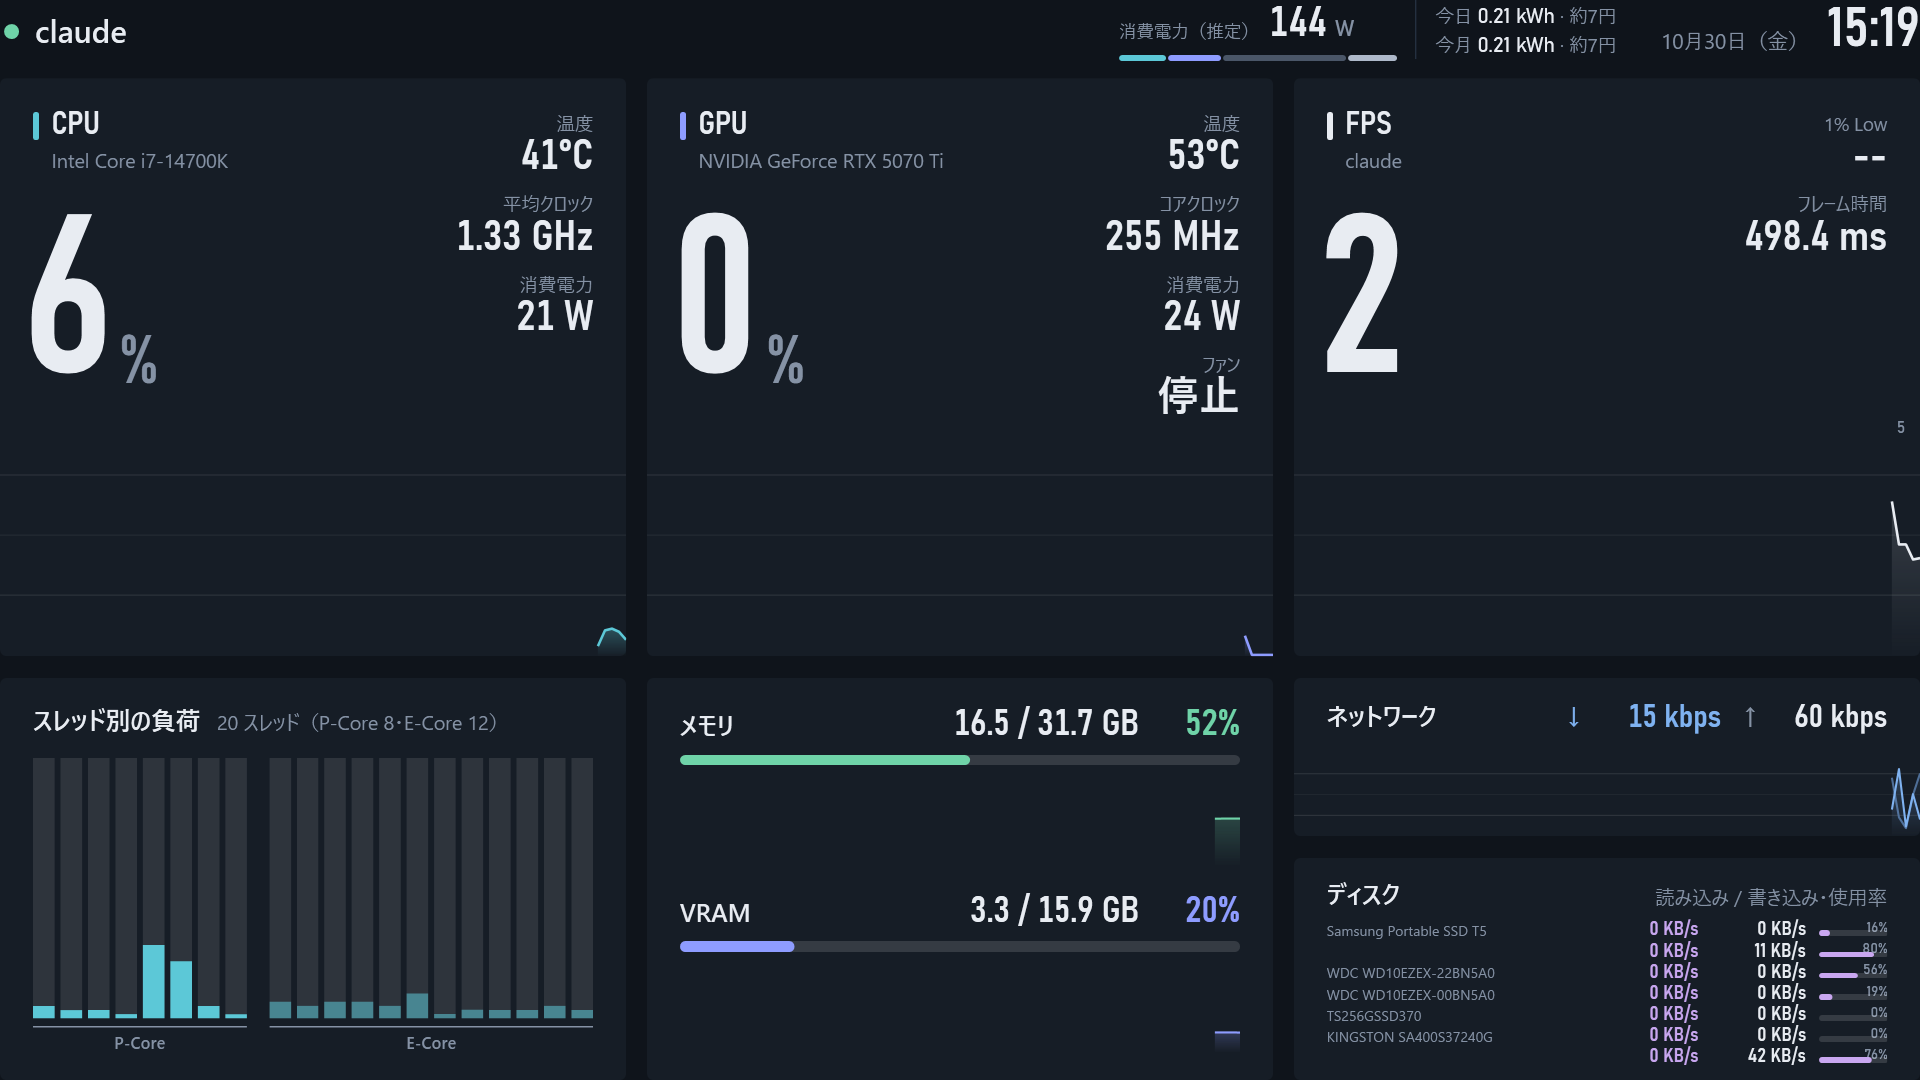
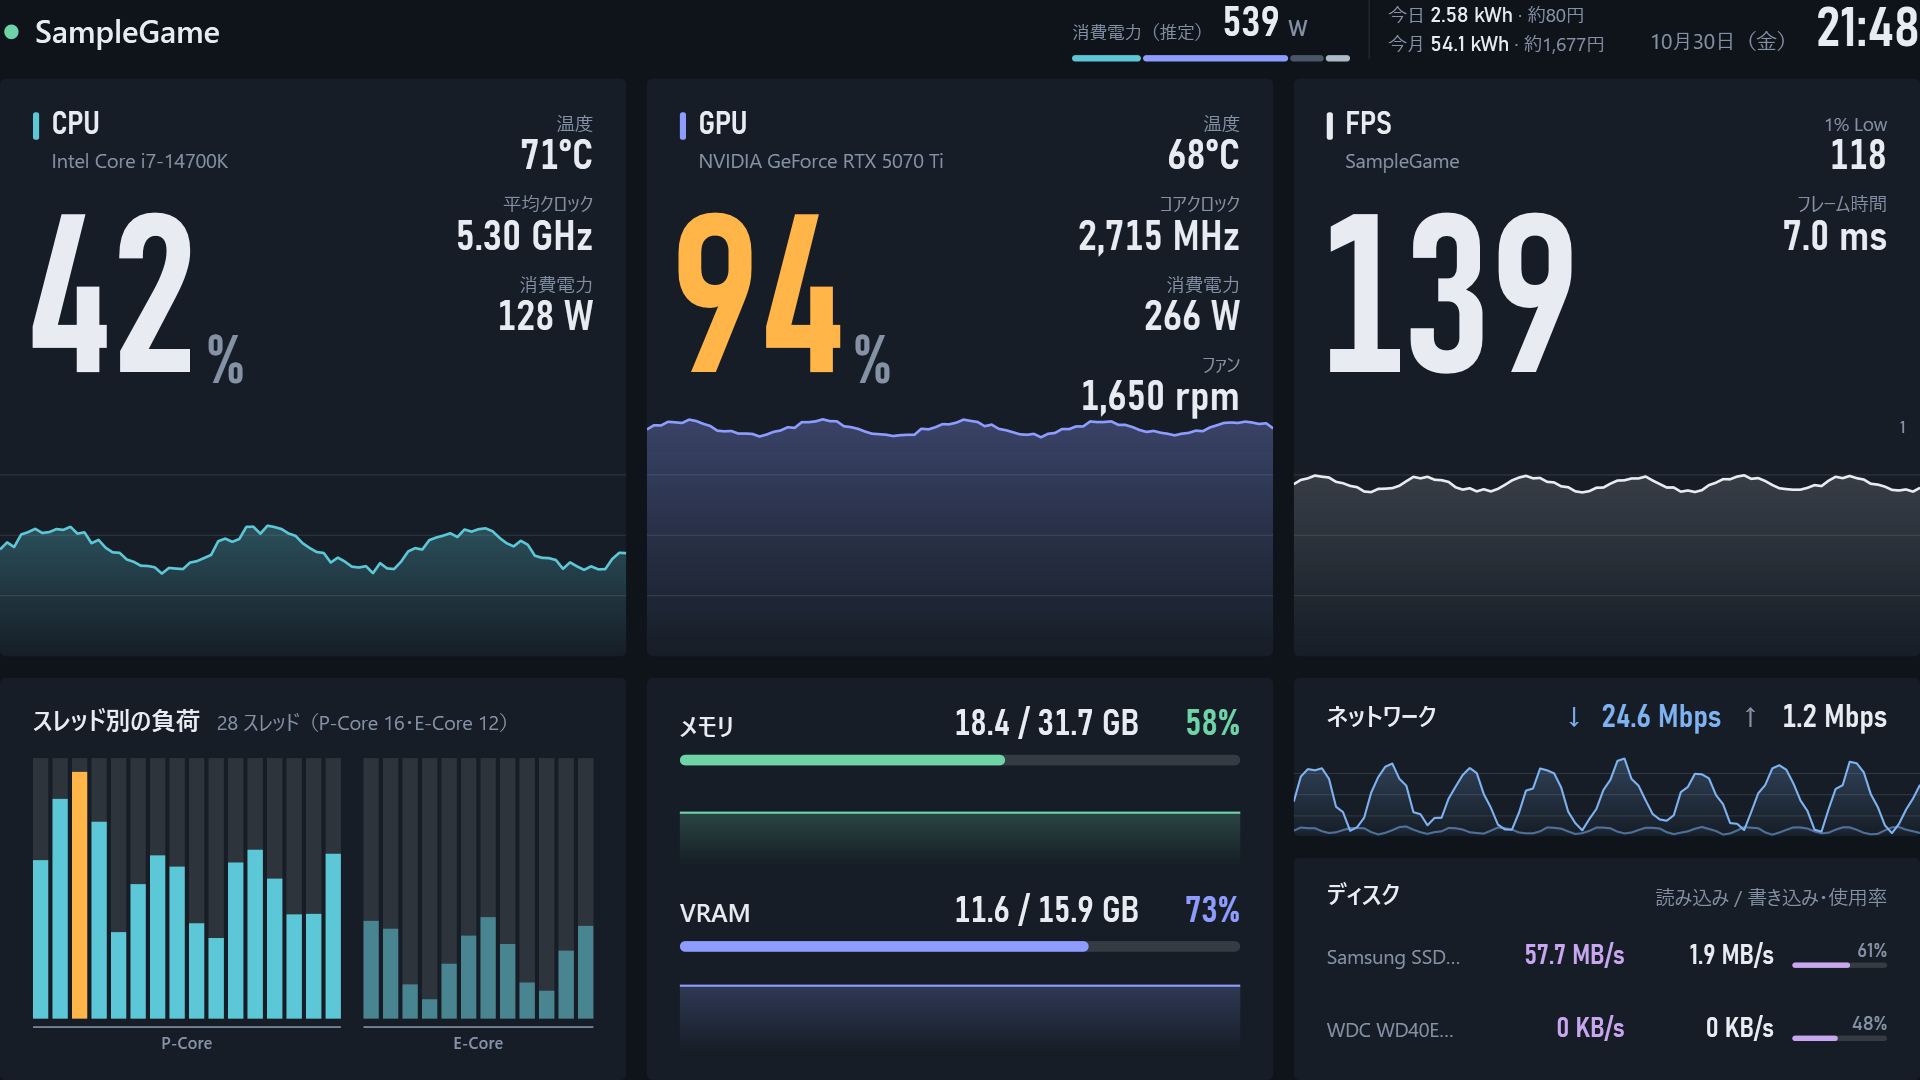
README の画面写真を見本データから作るツールを追加（tools/Screenshots）
本体のレイアウトに見本データを流し込んで 1920×1080 の PNG を作る。
実機で撮る screenshot.request の仕組みは不要になったので外す

diff --git a/tools/Screenshots/Program.cs b/tools/Screenshots/Program.cs
@@ -1,0 +1,212 @@
+using System;
+using System.Collections.Generic;
+using System.IO;
+using System.Linq;
+using System.Threading.Tasks;
+using System.Windows;
+using System.Windows.Controls;
+using System.Windows.Media;
+using System.Windows.Media.Imaging;
+using System.Windows.Threading;
+using MyDashboard;
+using MyDashboard.Info;
+using MyDashboard.Monitoring;
+using MyDashboard.Views;
+
+namespace MyDashboard.Screenshots;
+
+/// <summary>
+/// 3つのレイアウトに見本データ（ゲーム中を想定）を流し込み、1920×1080 の PNG に保存する。
+/// 本体のレイアウトをそのまま使うので、見た目を変えたら実行し直すだけで README の写真が新しくなる。
+/// </summary>
+public static class Program
+{
+    private static readonly Random Rng = new(7);   // 毎回同じ絵になるように固定
+
+    [STAThread]
+    public static int Main(string[] args)
+    {
+        string outDir = args.Length > 0 ? args[0] : FindImagesFolder();
+        Directory.CreateDirectory(outDir);
+
+        // 本体の App.xaml の色・文字スタイルを読み込む（Run はしないので本体のウィンドウは開かない）
+        var app = new App();
+        app.InitializeComponent();
+        app.ShutdownMode = ShutdownMode.OnExplicitShutdown;
+
+        int code = 0;
+        Dispatcher.CurrentDispatcher.InvokeAsync(async () =>
+        {
+            try
+            {
+                await Capture("classic", null, outDir);
+                await Capture("gauge", null, outDir);
+                await Capture("aurora", "night", outDir);
+                await Capture("aurora", "day", outDir);
+            }
+            catch (Exception ex)
+            {
+                Console.Error.WriteLine(ex);
+                code = 1;
+            }
+            Dispatcher.CurrentDispatcher.InvokeShutdown();
+        });
+        Dispatcher.Run();
+        return code;
+    }
+
+    /// <summary>リポジトリの docs\images（このツールの位置から上にたどる）。</summary>
+    private static string FindImagesFolder()
+    {
+        var dir = new DirectoryInfo(AppContext.BaseDirectory);
+        while (dir != null && !File.Exists(Path.Combine(dir.FullName, "MyDashboard.csproj"))) dir = dir.Parent;
+        return Path.Combine(dir?.FullName ?? AppContext.BaseDirectory, "docs", "images");
+    }
+
+    private static async Task Capture(string layout, string? theme, string outDir)
+    {
+        var settings = new AppSettings
+        {
+            Layout = layout,
+            AuroraTheme = theme ?? "night",
+            AuroraMotion = false,
+            NewsRotateSeconds = 120,
+            WeatherPlace = "東京",
+        };
+        var ctx = new ViewContext(settings);
+        IDashboardView view = layout switch
+        {
+            "gauge" => new GaugeView(ctx),
+            "aurora" => new AuroraView(ctx),
+            _ => new ClassicView(ctx),
+        };
+        var host = new ContentControl { Width = 1920, Height = 1080, Content = view };
+        var background = view is Control { Background: { } bg } ? bg : ViewContext.Res("Ground");
+
+        // 画面の外に置いたウィンドウで動かす（レイアウトの Loaded やタイマーを本物どおりに動かすため）
+        var window = new Window
+        {
+            WindowStyle = WindowStyle.None,
+            ResizeMode = ResizeMode.NoResize,
+            ShowInTaskbar = false,
+            ShowActivated = false,
+            Left = -30000,
+            Top = -30000,
+            Width = 1920,
+            Height = 1080,
+            Background = background,
+            Content = host,
+        };
+        window.Show();
+
+        var clock = theme == "day" ? new DateTime(2026, 10, 30, 13, 20, 0) : new DateTime(2026, 10, 30, 21, 48, 0);
+        view.UpdateClock(clock);
+        view.ShowWeather(SampleWeather(clock, day: theme == "day"));
+        view.ShowNews(SampleNews());
+        view.ShowMedia(SampleMedia());
+        view.SetNotice("");
+
+        // グラフの履歴を埋める（直近90秒ぶん）
+        for (int i = 0; i < 90; i++) view.Render(SampleSnapshot(i));
+        await Task.Delay(TimeSpan.FromSeconds(5));   // 数字やメーターのアニメーション、色の切り替えが落ち着くまで
+        view.UpdateClock(clock);
+
+        var visual = new DrawingVisual();
+        using (var dc = visual.RenderOpen())
+        {
+            var rect = new Rect(0, 0, 1920, 1080);
+            dc.DrawRectangle(background, null, rect);
+            dc.DrawRectangle(new VisualBrush(host), null, rect);
+        }
+        var bmp = new RenderTargetBitmap(1920, 1080, 96, 96, PixelFormats.Pbgra32);
+        bmp.Render(visual);
+        var png = new PngBitmapEncoder();
+        png.Frames.Add(BitmapFrame.Create(bmp));
+        string name = theme == null ? layout : $"{layout}-{theme}";
+        using (var file = File.Create(Path.Combine(outDir, name + ".png"))) png.Save(file);
+        Console.WriteLine($"{name}.png");
+
+        window.Close();
+    }
+
+    // =========================================================== 見本データ
+
+    private const double GB = 1024d * 1024 * 1024;
+
+    private static double Wave(int i, double center, double amp, double period) =>
+        center + amp * Math.Sin(i * 2 * Math.PI / period) + (Rng.NextDouble() - 0.5) * amp * 0.6;
+
+    private static Snapshot SampleSnapshot(int i)
+    {
+        // 14700K：P コア 8（HT で 16 スレッド）＋ E コア 12
+        var threads = new List<double>();
+        var isE = new List<bool>();
+        for (int t = 0; t < 16; t++) { threads.Add(Math.Clamp(Wave(i + t * 5, t < 4 ? 78 : 52, 18, 23), 3, 100)); isE.Add(false); }
+        for (int t = 0; t < 12; t++) { threads.Add(Math.Clamp(Wave(i + t * 3, 24, 14, 17), 1, 100)); isE.Add(true); }
+
+        var cpu = new CpuInfo("Intel Core i7-14700K", Math.Clamp(Wave(i, 44, 8, 30), 0, 100), threads,
+            Wave(i, 68, 3, 40), 5300, 5600, Wave(i, 128, 12, 30), isE);
+        var gpu = new GpuInfo("NVIDIA GeForce RTX 5070 Ti", Math.Clamp(Wave(i, 94, 3, 20), 0, 99), Wave(i, 70, 2, 50), 82,
+            2715, 14000, Wave(i, 268, 14, 25), 11.6 * GB, 15.9 * GB, 1650);
+
+        var frames = new List<double>();
+        for (int f = 0; f < 1400; f++) frames.Add(1000.0 / 142 + (Rng.NextDouble() - 0.5) * 1.6 + (f % 230 == 0 ? 6 : 0));
+        var fps = new FpsInfo(FpsState.Running, "SampleGame", Wave(i, 142, 6, 15), 118, 7.0, null, frames,
+            new DlssInfo(DlssState.Detected, true, true, false, "310.2.1"), "Hardware: Independent Flip");
+
+        var disks = new List<DiskInfo>
+        {
+            new("Samsung SSD 990 PRO 2TB", Math.Max(0, Wave(i, 42e6, 30e6, 12)), Math.Max(0, Wave(i, 3e6, 2e6, 9)), 61, 44),
+            new("WDC WD40EZAZ", 0, 0, 48, 36),
+        };
+        var power = new PowerInfo(Wave(i, 548, 18, 25), 140, 290, 70, 48, 2.58, 54.1, 31);
+        return new Snapshot(cpu, gpu, new MemoryInfo(18.4 * GB, 31.7 * GB), disks,
+            new NetworkInfo(Math.Max(0, Wave(i, 2.4e6, 1.8e6, 11)), Math.Max(0, Wave(i, 0.3e6, 0.2e6, 7))),
+            fps, false, power);
+    }
+
+    private static NewsState SampleNews()
+    {
+        var now = DateTimeOffset.Now;
+        var items = new List<NewsItem>
+        {
+            new("テックニュース", "新しいグラフィックスドライバーが公開　人気タイトルで平均 8% の性能向上",
+                "https://example.com/1", now.AddHours(-1),
+                "最新のドライバーでは、複数の人気タイトルで描画性能が向上したほか、フレーム生成の安定性も改善された。配信ソフトとの組み合わせで起きていた不具合も修正されている。"),
+            new("ゲームニュース", "冬のセールが今週末から開始　過去最大の 3,000 本以上が対象", "https://example.com/2", now.AddHours(-2)),
+            new("サイエンス", "今夜はふたご座流星群が見ごろ　広い範囲で晴れの予報", "https://example.com/3", now.AddHours(-3)),
+            new("テックニュース", "小型 PC 向けの新しい省電力 CPU が登場　ファンレス機も", "https://example.com/4", now.AddHours(-4)),
+            new("ライフ", "朝晩の冷え込みが強まる　暖房の電気代を抑えるコツ", "https://example.com/5", now.AddHours(-5)),
+        };
+        for (int k = 0; k < 19; k++)
+            items.Add(new("ニュース", $"見本の見出し {k + 6}", $"https://example.com/{k + 6}", now.AddHours(-6 - k)));
+        return new NewsState(items, null);
+    }
+
+    private static WeatherInfo SampleWeather(DateTime now, bool day)
+    {
+        var start = new DateTime(now.Year, now.Month, now.Day, now.Hour / 3 * 3, 0, 0).AddHours(3);
+        int[] codes = day ? new[] { 1, 2, 3, 3, 0, 0 } : new[] { 0, 0, 1, 2, 2, 1 };
+        double[] temps = day ? new[] { 20.0, 18, 16, 15, 14, 15 } : new[] { 15.0, 14, 13, 13, 15, 18 };
+        int[] rain = day ? new[] { 0, 10, 20, 20, 10, 0 } : new[] { 0, 0, 10, 10, 0, 0 };
+        var hourly = Enumerable.Range(0, 6).Select(k =>
+        {
+            var t = start.AddHours(k * 3);
+            return new HourlyForecast(t, temps[k], rain[k], codes[k], t.Hour is >= 6 and < 17);
+        }).ToList();
+        var sunrise = now.Date.AddHours(6).AddMinutes(4);
+        var sunset = now.Date.AddHours(16).AddMinutes(49);
+        return new WeatherInfo("東京", day ? 21 : 16, day ? 1 : 0, day, 22, 13, hourly, now, null, sunrise, sunset);
+    }
+
+    private static NowPlaying SampleMedia()
+    {
+        // ジャケットの代わりのグラデーション
+        var art = new DrawingImage(new GeometryDrawing(
+            new LinearGradientBrush(Color.FromRgb(0x3A, 0x2E, 0x8C), Color.FromRgb(0xE0, 0x6C, 0x9F), 45),
+            null, new RectangleGeometry(new Rect(0, 0, 300, 300))));
+        art.Freeze();
+        return new NowPlaying("Spotify", "見本の曲", "見本のアーティスト", "見本のアルバム", true,
+            TimeSpan.FromSeconds(97), TimeSpan.FromSeconds(232), DateTime.Now, 1.0, art, Color.FromRgb(0xB0, 0x5C, 0xC8));
+    }
+}

diff --git a/MainWindow.xaml.cs b/MainWindow.xaml.cs
@@ -171,37 +171,6 @@ public partial class MainWindow : Window
 
     private void OnNextLayout(object sender, RoutedEventArgs e) => NextLayout();
 
-    /// <summary>
-    /// 3つのレイアウトを順に表示して 1920×1080 の PNG に保存し、元のレイアウトに戻す（README の画像用）。
-    /// WebView2（Twitch・YouTube の映像）は写らない。
-    /// </summary>
-    public async Task CaptureLayoutsAsync(string folder)
-    {
-        System.IO.Directory.CreateDirectory(folder);
-        string original = _settings.Layout;
-        foreach (var name in LayoutOrder)
-        {
-            SwitchLayout(name, save: false);
-            await Task.Delay(TimeSpan.FromSeconds(4));   // フェードやグラフが落ち着くまで待つ
-
-            var visual = new DrawingVisual();
-            using (var dc = visual.RenderOpen())
-            {
-                var rect = new Rect(0, 0, Host.Width, Host.Height);
-                dc.DrawRectangle(Background, null, rect);
-                dc.DrawRectangle(new VisualBrush(Host), null, rect);
-            }
-            var bmp = new System.Windows.Media.Imaging.RenderTargetBitmap(
-                (int)Host.Width, (int)Host.Height, 96, 96, PixelFormats.Pbgra32);
-            bmp.Render(visual);
-            var png = new System.Windows.Media.Imaging.PngBitmapEncoder();
-            png.Frames.Add(System.Windows.Media.Imaging.BitmapFrame.Create(bmp));
-            using var file = System.IO.File.Create(System.IO.Path.Combine(folder, name + ".png"));
-            png.Save(file);
-        }
-        SwitchLayout(original, save: false);
-    }
-
     // =========================================================== モニター配置
 
     private static int ResolveMonitor(int requested)

diff --git a/App.xaml.cs b/App.xaml.cs
@@ -33,34 +33,6 @@ public partial class App : Application
         base.OnStartup(e);
         new MainWindow().Show();
         WatchQuitRequest();
-        WatchScreenshotRequest();
-    }
-
-    /// <summary>
-    /// exe の隣に screenshot.request が置かれたら、3つのレイアウトの画面を screenshots フォルダに PNG で保存する。
-    /// quit.request と同じく、通常権限の側から管理者権限のアプリに頼むための入口。
-    /// </summary>
-    private void WatchScreenshotRequest()
-    {
-        string path = Path.Combine(AppContext.BaseDirectory, "screenshot.request");
-        try { File.Delete(path); } catch { }
-
-        bool busy = false;
-        var timer = new DispatcherTimer { Interval = TimeSpan.FromSeconds(1) };
-        timer.Tick += async (_, _) =>
-        {
-            if (busy || !File.Exists(path)) return;
-            busy = true;
-            try { File.Delete(path); } catch { }
-            try
-            {
-                if (MainWindow is MainWindow w)
-                    await w.CaptureLayoutsAsync(Path.Combine(AppContext.BaseDirectory, "screenshots"));
-            }
-            catch { }
-            busy = false;
-        };
-        timer.Start();
     }
 
     /// <summary>

diff --git a/PROJECT.md b/PROJECT.md
@@ -94,19 +94,22 @@ make-dist.ps1             配布用 zip を dist\ に作る（同梱の説明書
 install-autostart.bat     自動起動の登録（Shift_JIS・CRLF）
 uninstall-autostart.bat   自動起動の解除（Shift_JIS・CRLF）
 mockups/                  デザインのモックアップ画像
-docs/images/              README の画面写真（下の「README の画面写真を撮り直す」で作る）
+docs/images/              README の画面写真（tools/Screenshots で作る）
+tools/Screenshots/        README の画面写真を見本データから作るツール（本体の csproj からは DefaultItemExcludes で除外）
 ```
 
-### README の画面写真を撮り直す
+### README の画面写真を作り直す
 
-ダッシュボードは管理者権限で動くので、外から画面を撮れない（後ろに隠れている・キーも送れない）。代わりにアプリ自身に撮らせる。
+見た目を変えたら、次の1行で `docs/images/` の4枚（`classic.png`・`gauge.png`・`aurora-night.png`・`aurora-day.png`、1920×1080）を作り直して commit する。
 
-1. `publish\screenshot.request` という空ファイルを置く（`New-Item -ItemType File D:\MyDashboard\publish\screenshot.request -Force`）
-2. アプリが 標準 → 計器盤 → オーロラ を4秒ずつ表示して `publish\screenshots\classic.png`・`gauge.png`・`aurora.png`（1920×1080）に保存し、元のレイアウトに戻す（約15秒。settings.json は書き換えない）
-3. `docs/images/` にコピーして commit
+```
+dotnet run -c Release --project tools/Screenshots
+```
 
-- WebView2（Twitch・YouTube の映像）は写らないので、オーロラはメディアカードをニュースにしておく
-- ゲーム中に撮ると FPS やメーターが動いた写真になる（何もしていないと前面のアプリ名と低い FPS が出る）
+- 本体のレイアウト（Views）をそのまま使い、見本データ（ゲーム中を想定した負荷・架空のニュース・天気・曲）を流し込んで、画面の外のウィンドウで描いて保存する。センサー・ネット・管理者権限は使わず、動いているダッシュボードにも触らない（約25秒）
+- 見本データは `tools/Screenshots/Program.cs`。Snapshot や Info のレコードの形を変えたら、ここも直さないとコンパイルが通らない
+- オーロラは夜・昼のテーマに固定して撮る。WebView2（Twitch・YouTube）は描けないので、メディアカードはニュースのまま
+- Windows でだけ動く（クラウドの Linux では作れない）
 
 ## これまでに分かった注意点（再発させないこと）
 - .bat は Shift_JIS（CP932）・CRLF で保存し、chcp 65001 は使わない（UTF-8 だと行が壊れて誤実行される）

diff --git a/CLAUDE.md b/CLAUDE.md
@@ -47,7 +47,6 @@
 4. 起動：`Start-ScheduledTask -TaskName MyDashboard`（または `schtasks /Run /TN MyDashboard`）。管理者権限のまま UAC なしで起動する
    - Git Bash から schtasks を呼ぶと `/Run` がパスに変換されるので、PowerShell を使う
 5. 起動したか `Get-Process MyDashboard` で確かめる
-6. 画面の確認：`publish\screenshot.request` を置くと、アプリが3つのレイアウトを `publish\screenshots\*.png` に保存する（約15秒。詳しくは PROJECT.md）
 
 - `publish\PresentMon.exe`（FPS 計測）、`publish\settings.json`（依頼者の設定）、`publish\twitch-auth.json`（Twitch のログイン）、`publish\webview2\`、`publish\power-log.json`（今日・今月の電力量）は消さない・上書きしない
 - ソース側の `settings.json` は publish へ「新しければ上書き」でコピーされる。ソース側を編集すると依頼者の設定が初期値で上書きされるので、既定値を変えたいときは `AppSettings.cs` を直す
@@ -107,4 +106,5 @@
 ## 作業の終わりに
 
 - 変更したら `PROJECT.md` と `README.md` の該当箇所も直す
+- 見た目を変えたら `dotnet run -c Release --project tools/Screenshots` で README の画面写真（docs/images）も作り直す
 - ビルド → 起動まで済ませてから、依頼者に「何が変わったか」と「見てほしいところ」を短く伝える

diff --git a/README.md b/README.md
@@ -4,13 +4,17 @@
 ゲーム中は CPU・GPU・FPS・メモリ・VRAM などの負荷を、普段は時計・天気・ニュース・Twitch・YouTube を表示します。
 1920×1080 を基準に作ってあり、どの解像度のモニターでも縦横比を保って拡大縮小されます。
 
-**オーロラ**：普段使い向け。時計・天気・再生中の曲・ニュース／Twitch／YouTube が主役の壁紙寄り（昼の配色）
+**オーロラ**：普段使い向け。時計・天気・再生中の曲・ニュース／Twitch／YouTube が主役の壁紙寄り。色は時間帯で変わる（左＝夜、右＝昼）
 
-![オーロラ](docs/images/aurora.png)
+| | |
+| --- | --- |
+| ![オーロラ（夜）](docs/images/aurora-night.png) | ![オーロラ（昼）](docs/images/aurora-day.png) |
 
 | **標準**：ゲーム中向け。情報量重視 | **計器盤**：ゲーム中向け。FPS が見やすい円弧メーター |
 | --- | --- |
 | ![標準](docs/images/classic.png) | ![計器盤](docs/images/gauge.png) |
+
+※ 画像は見本のデータで作ったものです（ゲーム名・ニュース・曲名は架空）。
 
 > 開発者向けの情報（ソースの構成・ビルド方法・注意点）は `PROJECT.md` にあります。
 
